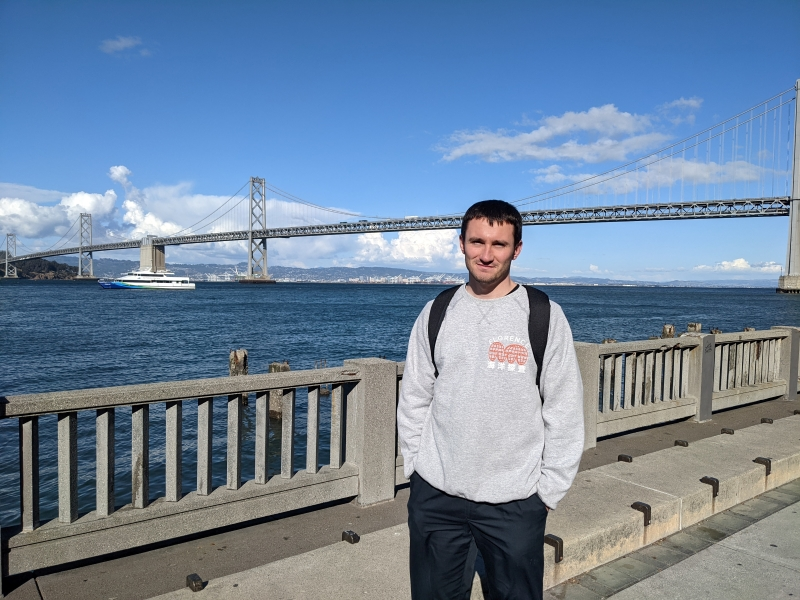
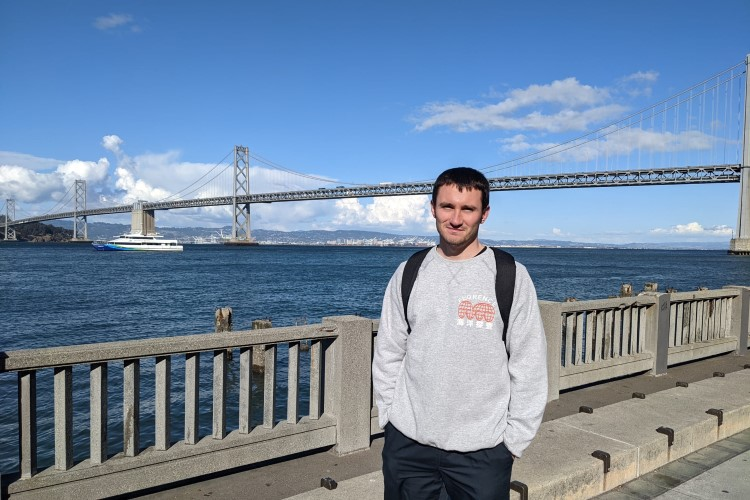
Ajout photo About responsive

diff --git a/src/components/NavBar/index.tsx b/src/components/NavBar/index.tsx
@@ -14,12 +14,12 @@ function NavBar() {
         anchor: string;
     }
     const NavCat = ({icon, text, anchor}: NavCatProps) => (
-        <li className='hover:text-white/50 flex justify-center items-center py-1 text-center group-hover/menu:flex group-hover/menu:justify-start group-hover/menu:pl-5 group-hover/menu:sm:pl-0 group-hover/menu:sm:justify-center group-hover/menu:md:pl-0 group-hover/menu:lg:pl-0 group-hover/menu:md:justify-center group-hover/menu:lg:justify-center'>
+        <div className='hover:text-white/50 flex justify-center items-center py-1 text-center group-hover/menu:flex group-hover/menu:justify-start group-hover/menu:pl-5 group-hover/menu:sm:pl-0 group-hover/menu:sm:justify-center group-hover/menu:md:pl-0 group-hover/menu:lg:pl-0 group-hover/menu:md:justify-center group-hover/menu:lg:justify-center' aria-label={text}>
             <a href={anchor} className={ active === anchor ? 'group/link active text-white/40 flex flex-row transition-all static text-center sm:justify-center group-hover/menu:flex group-hover/menu:justify-start group-hover/menu:items-center group-hover/menu:sm:flex-row group-hover/menu:sm:justify-center' : 'group/link transition-all flex flex-row static text-center sm:justify-center group-hover/menu:flex group-hover/menu:justify-start group-hover/menu:items-center group-hover/menu:sm:flex-row group-hover/menu:sm:justify-center' } aria-label={text} role='button'>
                 <i className='group/icon rounded-full border border-white/10 relative flex items-center justify-center h-12 w-12 mt-2 mb-2 mx-auto transition-all duration-100 ease-linear cursor-pointer xs:h-11 xs:w-11 group-hover/link:transition-all group-hover/link:duration-100 group-hover/link:ease-linear group-hover/link:bg-darkBlue/10 group-[.active]/link:transition-all group-[.active]/link:duration-100 group-[.active]/link:ease-linear group-[.active]/link:bg-darkBlue/10' style={anchor === '#contact' ? { paddingRight: '2px' } : {} }>{icon}</i>
                 <span className='hidden relative transition-all text-center cursor-pointer ml-[0.8rem] group-hover/menu:flex group-hover/menu:text-center group-hover/menu:sm:hidden group-hover/menu:md:hidden group-hover/menu:lg:hidden group-hover/link:font-medium group-[.active]/link:font-medium'>{text}</span>
             </a>
-        </li>
+        </div>
     )
     const [active, setActive] = useState<string>('');
     useEffect(() => {
@@ -30,8 +30,8 @@ function NavBar() {
         return () => window.removeEventListener('hashchange', handleHashChange);
     }, [])
     return (
-        <nav className='group/menu z-50 overflow-scroll bg-darkBlue text-white/90 fixed text-105 top-0 right-0 py-3 h-screen w-20 shadow-sm shadow-blue hover:w-52 hover:duration-100 text-center lg:fixed lg:bottom-0 lg:left-0 lg:flex-row lg:top-auto lg:px-4 lg:py-0 lg:w-screen lg:h-20 lg:hover:w-screen'>
-            <ul className='flex flex-col h-full justify-between lg:flex-row'>
+        <nav className='group/menu z-50 bg-darkBlue text-white/90 fixed text-105 top-0 right-0 py-3 h-screen w-20 shadow-sm shadow-blue hover:w-52 hover:duration-100 text-center lg:fixed lg:bottom-0 lg:left-0 lg:flex-row lg:top-auto lg:px-4 lg:py-0 lg:w-screen lg:h-20 lg:hover:w-screen'>
+            <div className='flex flex-col h-full justify-between lg:flex-row'>
                 <div className='navbar-top lg:flex lg:flex-row lg:justify-around lg:w-3/5'>
                     <NavCat icon={<FaAddressCard size="27" />} text={t('categories.about')} anchor={'#about'} />
                     <NavCat icon={<GiSkills size="27" />} text={t('categories.skills')} anchor={'#skills'} />
@@ -41,7 +41,7 @@ function NavBar() {
                     <NavCat icon={<IoShareSocial size="27" />} text={t('categories.contact')} anchor={'#contact'} />
                     <SwitchLanguage />
                 </div>
-            </ul>
+            </div>
         </nav>
     )
 }

diff --git a/src/components/SwitchLanguage/index.tsx b/src/components/SwitchLanguage/index.tsx
@@ -18,7 +18,7 @@ function SwitchLanguage() {
 
     return (
         <li className='hover:text-white/50 flex justify-center items-center py-1 text-center hover:justify-start group-hover/menu:flex group-hover/menu:justify-start group-hover/menu:pl-5 group-hover/menu:sm:pl-0 group-hover/menu:sm:justify-center group-hover/menu:md:pl-0 group-hover/menu:lg:pl-0 group-hover/menu:md:justify-center group-hover/menu:lg:justify-center'>
-            <button className='group/link transition-all flex flex-row static text-center sm:justify-center group-hover/menu:flex group-hover/menu:justify-start group-hover/menu:items-center group-hover/menu:sm:flex-row group-hover/menu:sm:justify-center' onClick={changeLanguage} type='button' name='button'>
+            <button className='group/link transition-all flex flex-row static text-center sm:justify-center group-hover/menu:flex group-hover/menu:justify-start group-hover/menu:items-center group-hover/menu:sm:flex-row group-hover/menu:sm:justify-center' onClick={changeLanguage} role='button'>
                 <i className='group/icon rounded-full border border-white/10 shadow-sm relative flex items-center justify-center h-12 w-12 mt-2 mb-2 mx-auto transition-all duration-100 ease-linear cursor-pointer xs:h-11 xs:w-11 group-hover/link:transition-all group-hover/link:duration-100 group-hover/link:ease-linear group-hover/link:bg-darkBlue/10'>{<MdLanguage size="28" />}</i>
                 <span className='hidden relative transition-all text-center cursor-pointer ml-[0.8rem] group-hover/menu:flex group-hover/menu:text-center group-hover/menu:sm:hidden group-hover/menu:md:hidden group-hover/menu:lg:hidden group-hover/link:font-medium'>{t('categories.language')}</span>
             </button>

diff --git a/src/components/About/index.tsx b/src/components/About/index.tsx
@@ -1,5 +1,6 @@
 import { useTranslation } from 'react-i18next';
 import picBayBridge from '../../assets/photos/pic-bay-bridge.jpg'
+import picBayBridgeResponsive from '../../assets/photos/pic-bay-bridge-responsive.jpg'
 
 function About() {
     const { t } = useTranslation()
@@ -14,9 +15,21 @@ function About() {
                         {t('about.sentence4')}
                     </p>
                 </div>
-                <img src={picBayBridge} alt='Bay Bridge' className='w-2/5 ml-14 aspect-auto rounded-lg shadow-sm shadow-blue/20 xl:ml-7 lg:ml-[3.5%] md:w-2/3 md:ml-0 md:mt-20 md:mb-6 md:rounded-xl sm:w-11/12 sm:md:mt-16 sm:mb-2' itemProp='image'/>
+                <div className='w-2/5 h-auto ml-14 aspect-auto rounded-lg shadow-sm shadow-blue/20 xl:ml-7 lg:ml-[3.5%] md:w-2/3 md:ml-0 md:mt-20 md:mb-6 md:rounded-xl sm:w-11/12 sm:md:mt-16 sm:mb-2'>
+                    <img alt='Bay Bridge'className='h-full w-full' itemProp='image' loading='lazy'
+                        src={picBayBridge} 
+                        srcSet={`${picBayBridgeResponsive} 430w, ${picBayBridge} 750w`}
+                        sizes="(max-width: 770px) 430px, 750px"
+                    />
+                </div>
             </section>
         )
 }
 
 export default About
+
+
+// srcset="./assets/images/slider/nicholas-green-650-unsplash.jpg 650w,
+//         ./assets/images/slider/nicholas-green-1000-unsplash.jpg 1000w,
+//         ./assets/images/slider/nicholas-green-unsplash.jpg 1600w"
+// sizes="(max-width: 650px) 650px, (max-width: 1000px) 1000px, (min-width: 1001px) 1600px"
